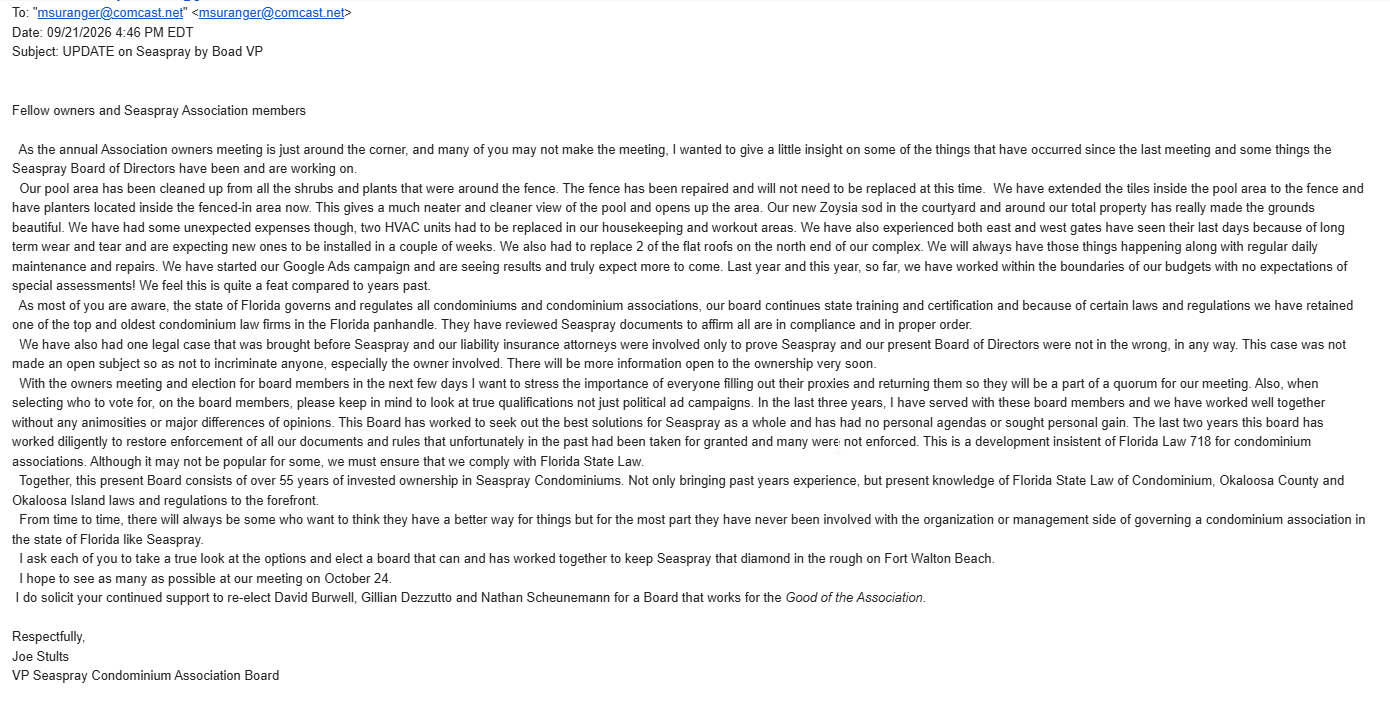
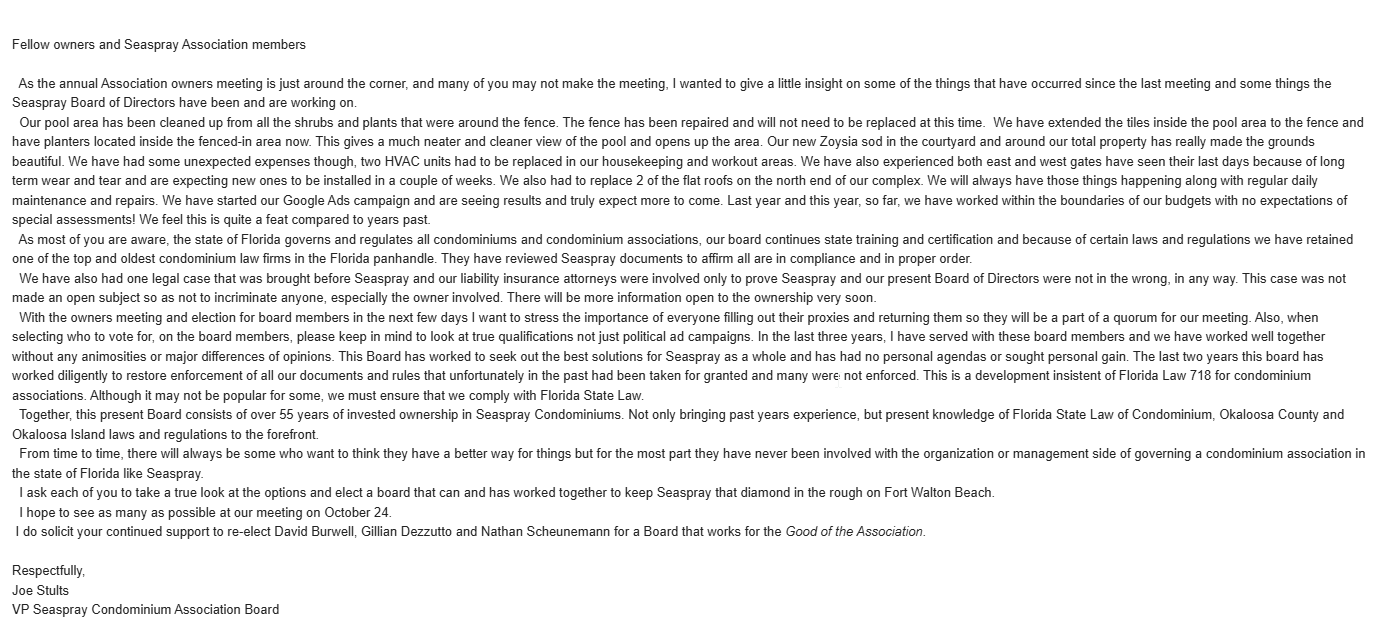
Add files via upload

Changed region(s): [[0.0, 0.1197, 0.9899, 0.8677], [0.0, 0.0, 0.2475, 0.0898], [0.0, 0.8976, 0.2165, 0.9874]]

diff --git a/board-update.html b/board-update.html
@@ -56,9 +56,9 @@
         <article class="update-card">
           <div class="update-icon">◆</div>
           <h2>Are New Candidates Qualified?</h2>
-          <p><strong>Yes.</strong> Eric H. Stensrud, Roberto Giacomelli, and Zachary Moody each bring extensive experience in business leadership, operations, budgeting, management, problem solving, customer relationships, and working within changing environments.</p>
-          <p>Florida condominium law is important for an association like Seaspray and is continually evolving. Florida law requires education for newly elected or appointed residential condominium directors and ongoing continuing education. Eric, Roberto, and Zachary will do what they do every day in their professional lives: continue learning, stay informed on matters relevant to Seaspray, and rely on the experts and professionals available to them for guidance on difficult issues.</p>
-          <p>The important quality is not that every Board member is personally an expert in every Florida statute. It is that they know how to seek expert guidance, ask the right questions, and approach difficult situations from an Owners First perspective while looking out for the interests of all owners.</p>
+          <p><strong>Yes.</strong> Eric Stensrud, Roberto Giacomelli, and Zachary Moody each bring extensive experience in business leadership, operations, budgeting, management, problem solving, customer relationships, and working within changing environments.</p>
+          <p>Florida condominium law is one of the many things that is important for an association like Seaspray, and it is continually changing and evolving. That is exactly why Florida law requires Board members to receive ongoing training. Eric, Roberto, and Zachary will treat this no differently than they treat anything else in their professional lives: they have already begun learning about the appropriate rules and regulations, will continue learning and staying informed on all matters relevant to Seaspray, and will rely on the experts and professionals available to them for guidance on difficult issues rather than assuming they always know what is right or best.</p>
+          <p>The important thing is not that every Board member is an expert in Florida statute. It is that, as leaders and members of the Board, they are well-rounded and skilled in many areas and know how to seek expert guidance and ask the right questions when needed, while always approaching difficult situations from an Owners First perspective.</p>
           <p class="law-note"><a href="https://www.leg.state.fl.us/Statutes/index.cfm?App_mode=Display_Statute&amp;URL=0700-0799/0718/Sections/0718.112.html" target="_blank" rel="noopener noreferrer">Florida Stat. §718.112(2)(d) →</a></p>
           <blockquote>The right questions. The right experts. A stronger Seaspray.</blockquote>
         </article>
@@ -66,9 +66,10 @@
         <article class="update-card">
           <div class="update-icon">●</div>
           <h2>So What Would Be Different?</h2>
-          <p>The Board will still manage the Association on behalf of owners and address problems and issues as they arise. The difference is that we will do so while constantly asking what is best for <strong>all owners</strong> at Seaspray.</p>
-          <p>We will be more transparent. We will demand not only results, but also a higher level of customer service for owners and guests. We believe owners deserve respect, proactive communication, accountability, and a Board that consistently places their interests first.</p>
-          <blockquote>More transparency. Greater accountability. A Board that puts owners first.</blockquote>
+          <p>For the most part, Seaspray and the Board would continue to operate much as they always have. The difference is that they would do so <strong>better</strong>, with an Owners First mindset guiding every decision.</p>
+          <p>That means more transparency, more accountability, higher customer service, and better follow-through. Owners should not have to wonder what is happening, chase down answers, or feel like their concerns come second to the convenience of the Board or management.</p>
+          <p>We are not running to reinvent Seaspray. We are running to communicate better, listen better, manage better, and push for better results while always asking what is best for <strong>all owners</strong>.</p>
+          <blockquote>For the most part, Seaspray would operate the same. Just better.</blockquote>
         </article>
       </div>
     </section>

diff --git a/index.html b/index.html
@@ -79,7 +79,7 @@
       <div class="container">
         <div class="section-heading center"><p class="eyebrow teal">Meet the Owners First Candidates</p><h2>Three owners. A shared commitment to a stronger Seaspray.</h2></div>
         <div class="candidate-layout">
-          <article class="candidate-card featured"><img class="candidate-photo eric-photo" src="assets/family-photo.jpg" alt="Eric H. Stensrud and family"/><div class="candidate-body"><h3>Eric H. Stensrud</h3><p class="role">Owner. Builder. Problem Solver.</p><blockquote>“I’m running to bring transparency, accountability, and a practical owner-first approach to the board.”</blockquote><a class="small-btn" href="meet-eric.html">Learn More About Eric</a></div></article>
+          <article class="candidate-card featured"><img class="candidate-photo eric-photo" src="assets/family-photo.jpg" alt="Eric Stensrud and family"/><div class="candidate-body"><h3>Eric Stensrud</h3><p class="role">Owner. Builder. Problem Solver.</p><blockquote>“I’m running to bring transparency, accountability, and a practical owner-first approach to the board.”</blockquote><a class="small-btn" href="meet-eric.html">Learn More About Eric</a></div></article>
           <article class="candidate-card"><img class="candidate-photo roberto-photo" src="assets/roberto-family.png" alt="Roberto Giacomelli and family"/><div class="candidate-body"><h3>Roberto Giacomelli</h3><p class="role">Owner. Community Advocate.</p><blockquote>“I’m running to significantly improve the rental program performance through operational improvements, accountability and true leadership.”</blockquote><a class="small-btn" href="roberto-profile.html">Learn More About Roberto</a></div></article>
           <article class="candidate-card"><img class="candidate-photo zach-photo" src="assets/zachary-moody-family.png" alt="Zachary Moody and family"/><div class="candidate-body"><h3>Zachary Moody</h3><p class="role">Owner. Fresh Perspective.</p><blockquote>“I’m committed to helping build a Seaspray that communicates better, listens to owners, and plans for the future.”</blockquote><a class="small-btn" href="#contact">Learn More About Zachary</a></div></article>
           <aside class="slate-quote">Three Different Perspectives.<br/>One Shared Goal —<br/>A Better, Stronger Seaspray.</aside>

diff --git a/meet-eric.html b/meet-eric.html
@@ -12,7 +12,7 @@
   <meta charset="UTF-8" />
   <meta name="viewport" content="width=device-width, initial-scale=1.0" />
   <title>Meet Eric | Seaspray Owners First</title>
-  <meta name="description" content="Learn more about Eric H. Stensrud, his family's connection to Seaspray, his service, and his professional background." />
+  <meta name="description" content="Learn more about Eric Stensrud, his family's connection to Seaspray, his service, and his professional background." />
   <link rel="stylesheet" href="styles-v9.css?v=50" />
   <style>
     :root{--navy:#063c63;--deep:#052d49;--teal:#0aa1a7;--gold:#d5b05c;--sand:#f7efdf;--mist:#ecf5f8;--ink:#183247;--line:#dbe8ef;--shadow:0 18px 45px rgba(6,60,99,.14)}
@@ -185,7 +185,7 @@
           <a class="btn btn-white" href="index.html#candidates">Meet the Other Candidates</a>
           <a class="btn btn-white" href="index.html#contact">Contact Eric</a>
         </div>
-        <div class="signature">“I would be honored to help protect what makes Seaspray special and work toward a stronger future for every owner.”<span>— Eric H. Stensrud</span></div>
+        <div class="signature">“I would be honored to help protect what makes Seaspray special and work toward a stronger future for every owner.”<span>— Eric Stensrud</span></div>
       </div>
     </section>
     </main>

diff --git a/joe-board-email.html b/joe-board-email.html
@@ -34,9 +34,9 @@
           <a class="btn btn-white" href="board-update.html">← Back to Our Perspective</a>
         </div>
       </div>
-      <p class="email-fullsize-note">Click or tap the email below to open the original screenshot at full size.</p>
+      <p class="email-fullsize-note">Click or tap the email below to open the cropped screenshot at full size.</p>
       <a class="joe-email-image-card" href="assets/joe-stults-board-vp-update-email.png" target="_blank" rel="noopener">
-        <img src="assets/joe-stults-board-vp-update-email.png" alt="Screenshot of the September 21, 2026 email from Seaspray Board Vice President Joe Stults titled UPDATE on Seaspray by Board VP" />
+        <img src="assets/joe-stults-board-vp-update-email.png" alt="Cropped screenshot of the September 21, 2026 email from Seaspray Board Vice President Joe Stults titled UPDATE on Seaspray by Board VP" />
       </a>
     </div>
   </main>
